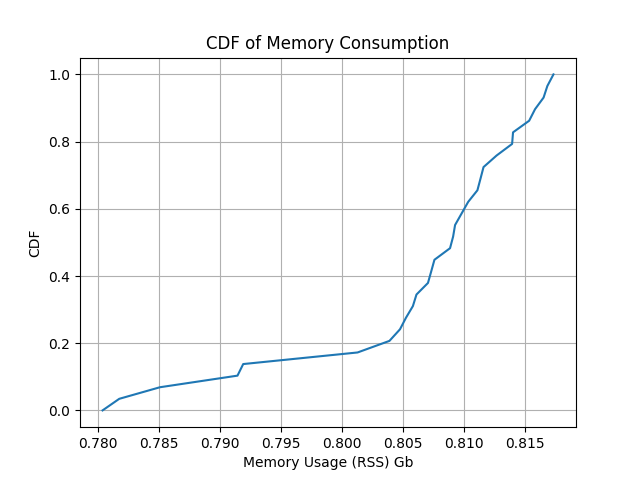
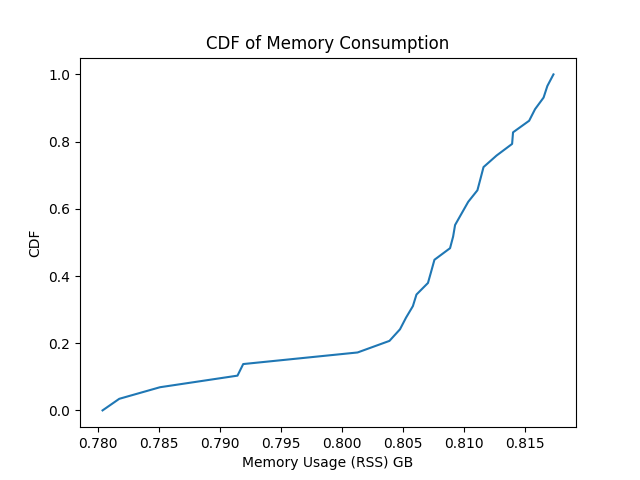
added hpa

diff --git a/profiling/profile.py b/profiling/profile.py
@@ -14,9 +14,8 @@ def plot_cdf():
     # Plot the CDF
     plt.plot(mem_usage, cdf_values)
     plt.ylabel('CDF')
-    plt.xlabel('Memory Usage (RSS) Gb')
+    plt.xlabel('Memory Usage (RSS) GB')
     plt.title('CDF of Memory Consumption')
-    plt.grid(True)
     plt.savefig('memory_usage_cdf.png')
     plt.show()
     
